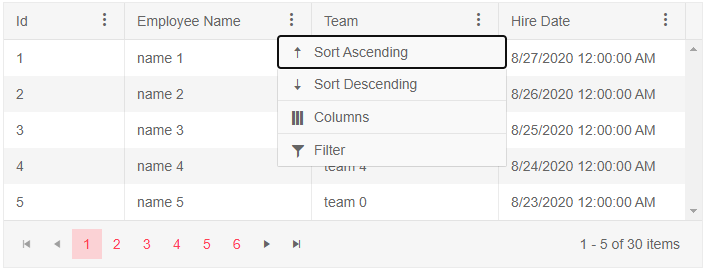
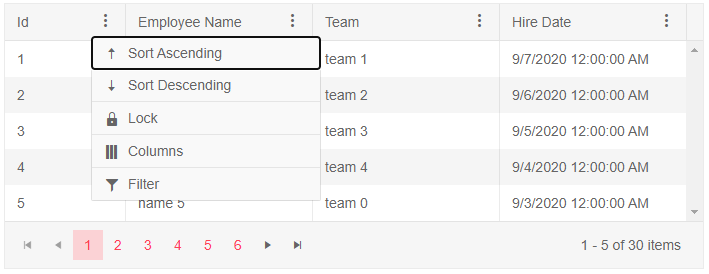
chore(grid): improvements on the column menu article

diff --git a/components/grid/columns/menu.md b/components/grid/columns/menu.md
@@ -23,6 +23,8 @@ In this article:
 
 To enable the column menu set the `ShowColumnMenu` parameter of the `<TelerikGrid>` tag to `true`. This will enable the menu for each column of the Grid.
 
+By default all the [features](#features) of the Column Menu are enabled.
+
 >caption Enable the column menu for all Grid columns. Basic example.
 
 ````CSHTML
